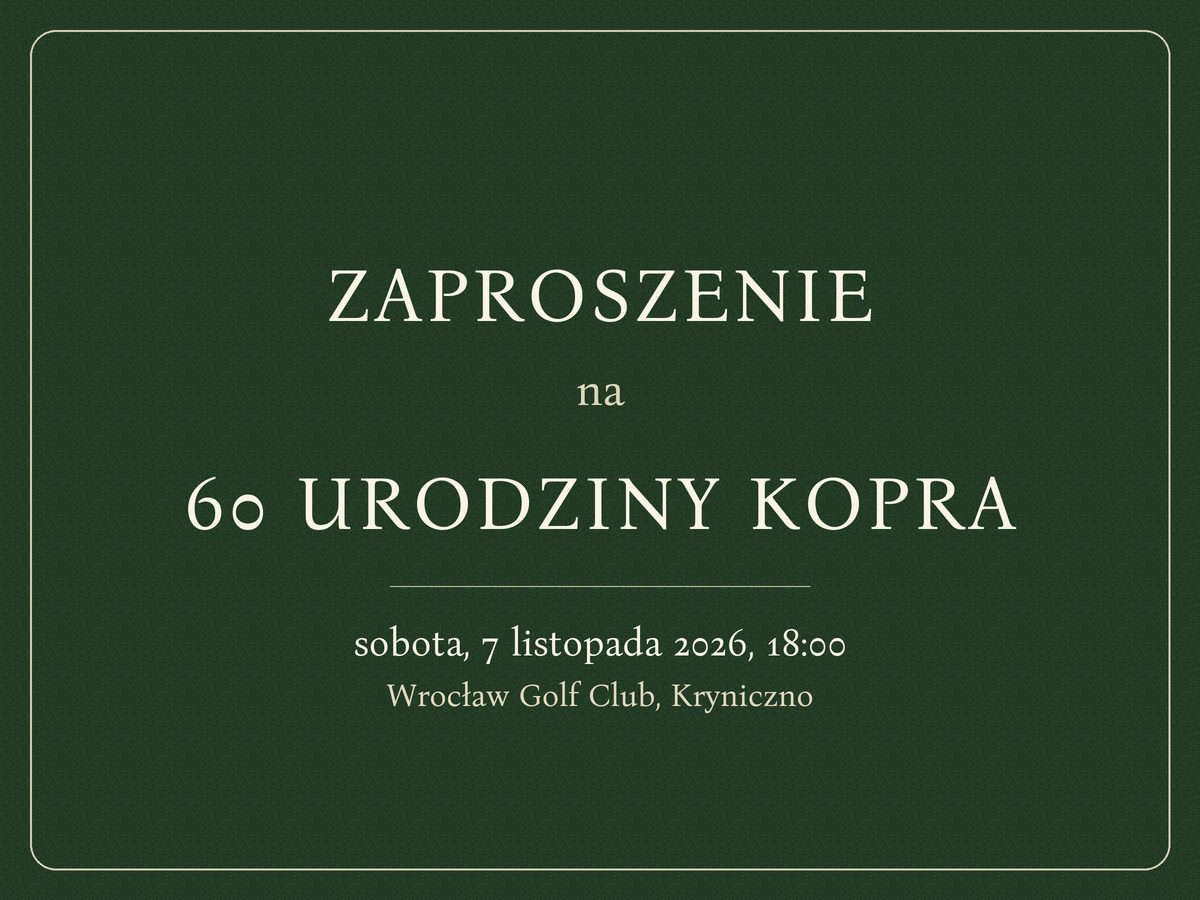
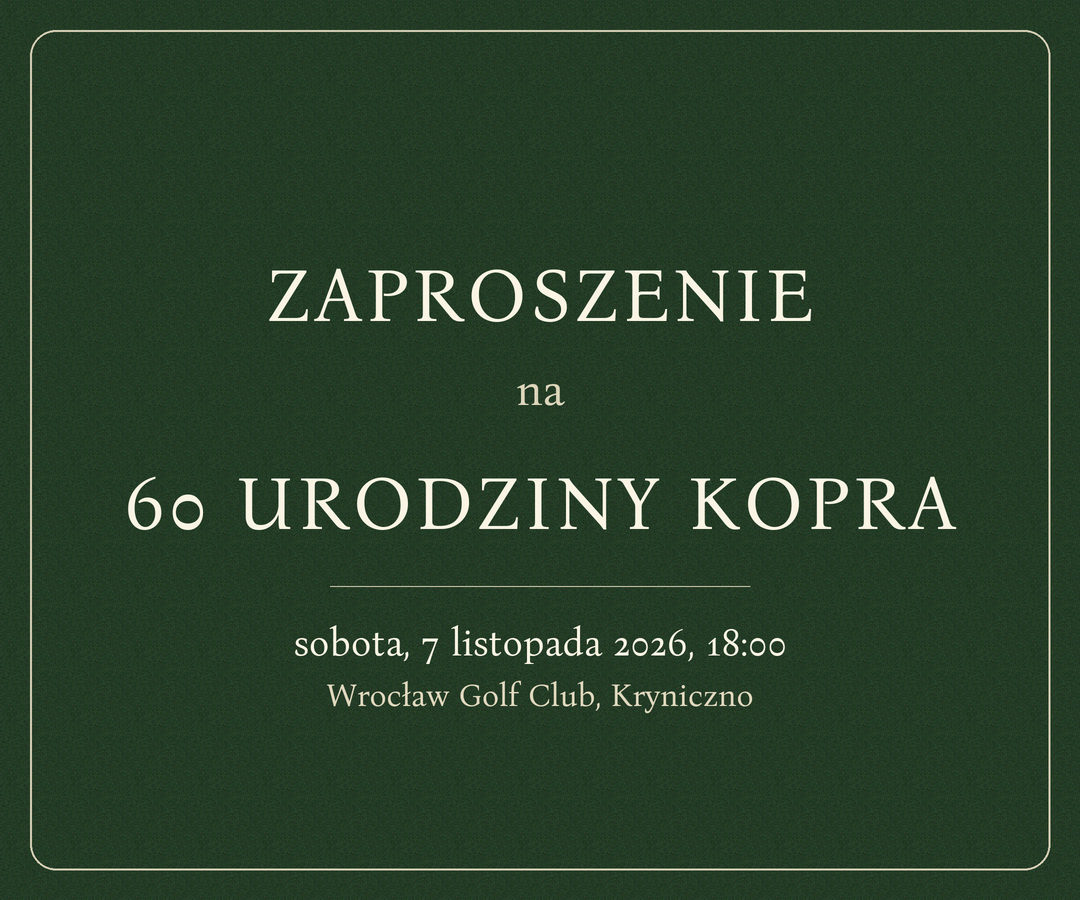
style(60kopra): węższa miniatura linku (1080x900)
Bezpieczny pas 1.91:1 przeliczony na nową szerokość: y 167-732. Cała treść
nadal w środku, og:image:width zaktualizowane.

diff --git a/60kopra/index.html b/60kopra/index.html
@@ -24,7 +24,7 @@
 <meta property="og:image" content="https://60kopra.pl/img/og.jpg">
 <meta property="og:image:secure_url" content="https://60kopra.pl/img/og.jpg">
 <meta property="og:image:type" content="image/jpeg">
-<meta property="og:image:width" content="1200">
+<meta property="og:image:width" content="1080">
 <meta property="og:image:height" content="900">
 <meta property="og:image:alt" content="60 urodziny Kopra — 7 listopada 2026, Wrocław Golf Club">
 <meta name="twitter:card" content="summary_large_image">

diff --git a/60kopra/scripts/make-share-images.py b/60kopra/scripts/make-share-images.py
@@ -3,7 +3,7 @@
 Generuje grafiki do wysyłki (WhatsApp) na bazie zaproszenia z Figmy,
 w palecie strony.
 
-  img/og.jpg           1200x900  — miniatura linku (Open Graph). To JĄ widać
+  img/og.jpg           1080x900  — miniatura linku (Open Graph). To JĄ widać
                                    jako klikalną kartę, gdy wkleisz 60kopra.pl
                                    w WhatsAppie. JPEG, nie PNG, i lekki —
                                    scraper WhatsAppa potrafi po cichu odrzucić
@@ -153,14 +153,15 @@ def make_invite(path, W=1080, H=1620):
 
 # ── pozioma miniatura linku (Open Graph) ──────────────────────────────────
 
-def make_og(path, W=1200, H=900):
+def make_og(path, W=1080, H=900):
     """Miniatura linku. JPEG, nie PNG — scraper WhatsAppa bywa wobec PNG-ów
     wybredny i potrafi je po cichu pominąć.
 
     Format wyższy niż klasyczne 1200x630, bo tak karta wychodzi okazalej.
     ALE: przy dużym podglądzie WhatsApp kadruje obraz mniej więcej do 1.91:1,
-    czyli do środkowego pasa ~1200x628. Wszystko, co niesie treść, musi się
-    zmieścić w tym pasie — reszta to margines, który wolno przyciąć.
+    czyli tutaj do środkowego pasa ~1080x565 (y 167–732). Wszystko, co niesie
+    treść, musi się zmieścić w tym pasie — reszta to margines, który wolno
+    przyciąć. Po zmianie szerokości warto ten pas przeliczyć na nowo.
     """
     w, h = W * SS, H * SS
     im = grain_bg(w, h)
